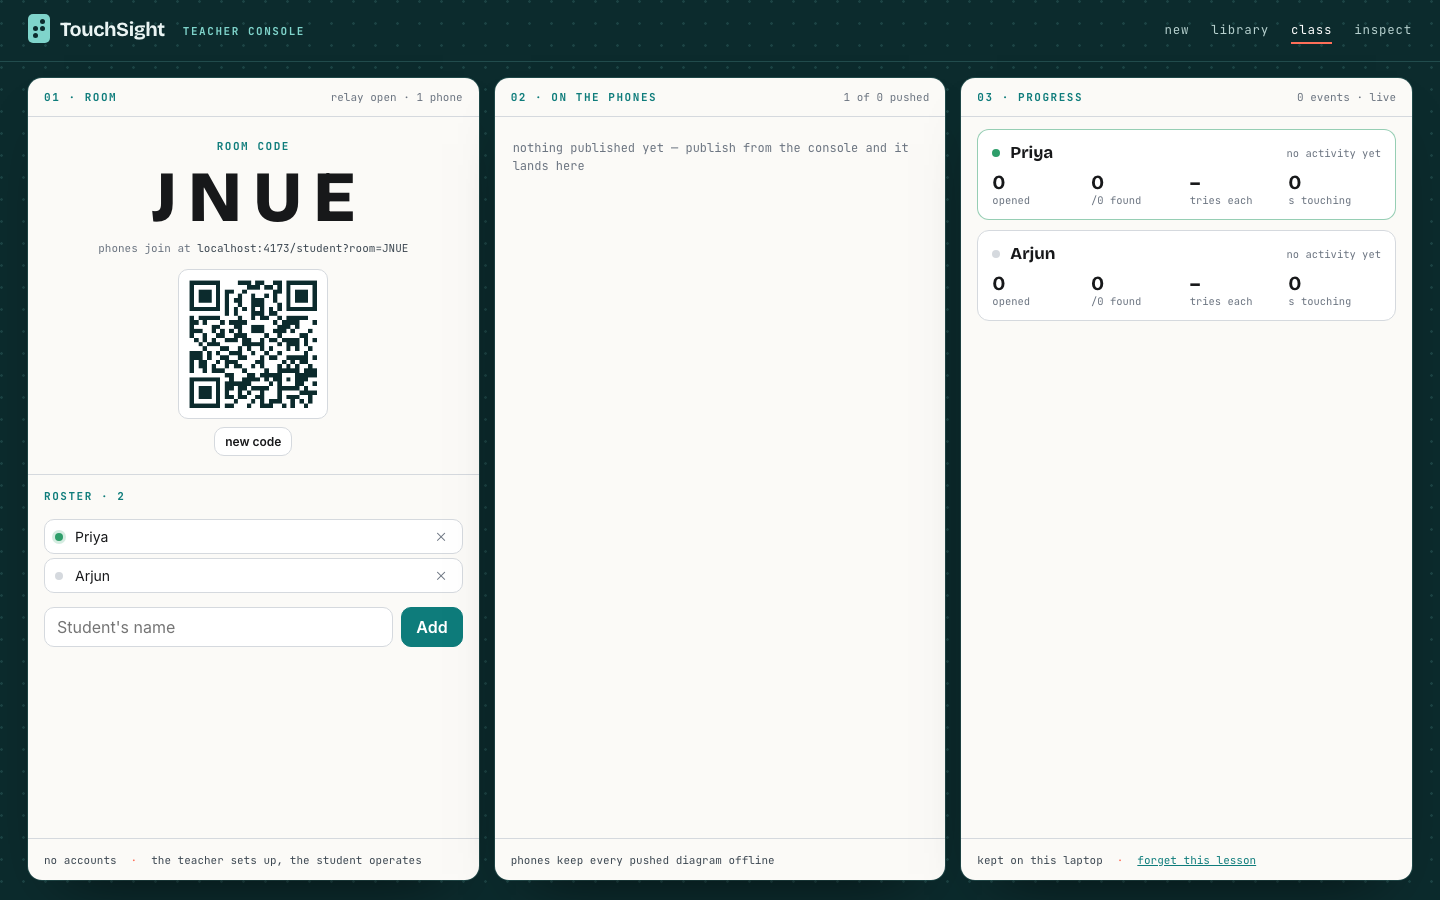
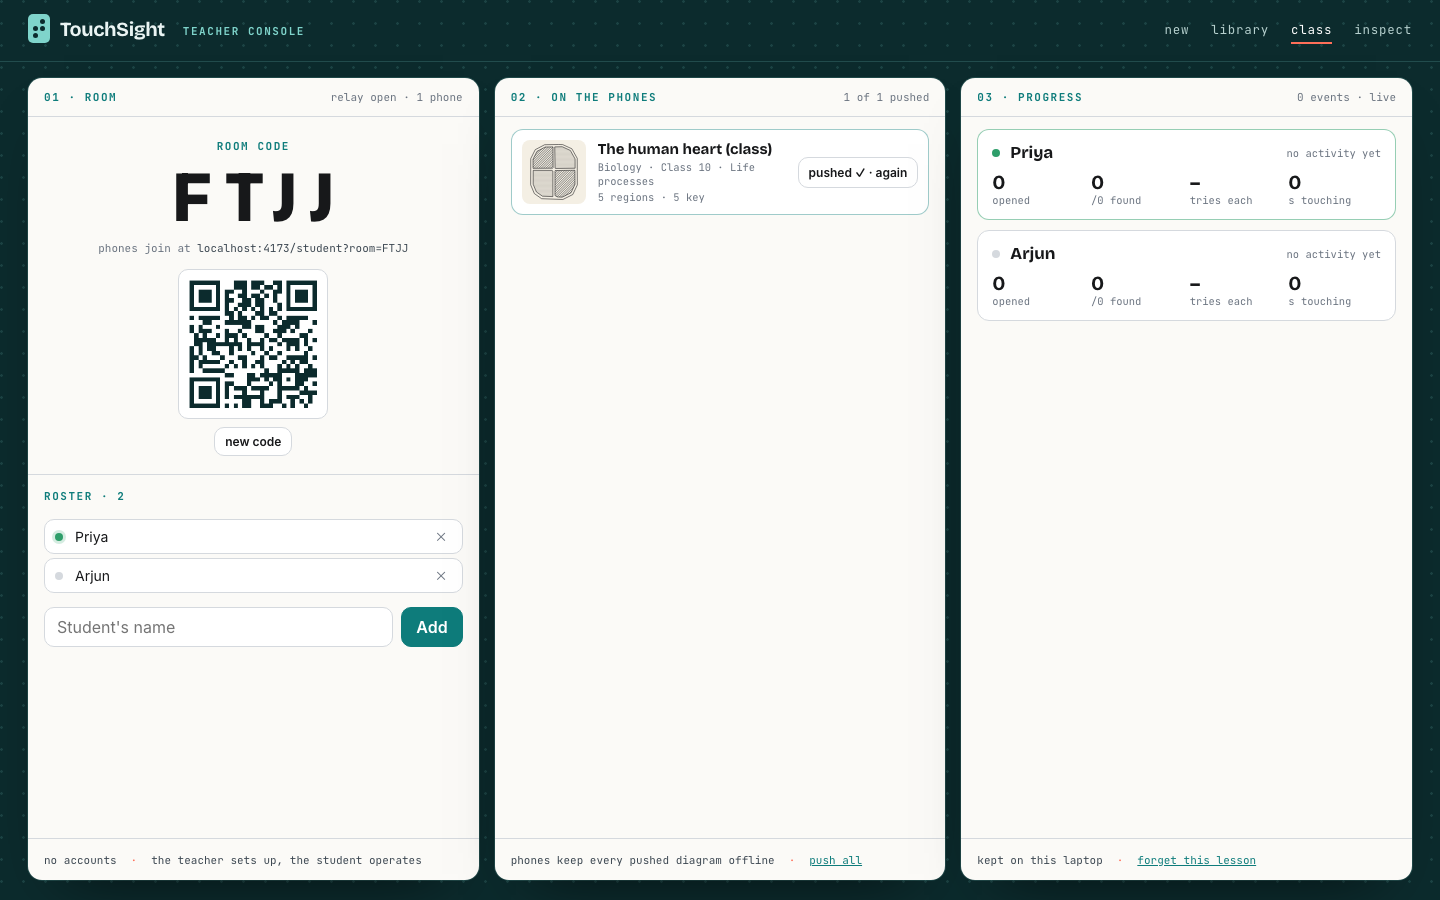
Published card counts the phones in the class

diff --git a/app/src/routes/teacher/Workbench.tsx b/app/src/routes/teacher/Workbench.tsx
@@ -30,6 +30,8 @@ export function Workbench() {
   const [title, setTitle] = useState('')
   const [imgUrl, setImgUrl] = useState<string | null>(null)
   const [found, setFound] = useState<{ regions: number; labels: number; strokes: number; ms: number } | null>(null)
+  const [phones, setPhones] = useState(0)
+  useEffect(() => { if (step !== 'published') return; const t = setInterval(() => setPhones(classroom.phones), 600); return () => clearInterval(t) }, [step])
   const fileRef = useRef<HTMLInputElement>(null)
 
   // reopen a saved diagram
@@ -244,7 +246,7 @@ export function Workbench() {
           <footer className="wb-pane-f wb-publish">
             {step === 'published' && tdm ? (
               <div className="wb-published">
-                <div className="wb-pub-row"><b>Published</b><span className="mono">pushed to class {teacherRoom()} · phones keep it offline</span><button className="btn" onClick={() => nav('/teacher/library')}>Library</button><button className="btn" onClick={reset}>New</button></div>
+                <div className="wb-pub-row"><b>Published</b><span className="mono">pushed to {phones} phone{phones === 1 ? '' : 's'} in class {teacherRoom()} · they keep it offline</span><button className="btn" onClick={() => nav('/teacher/library')}>Library</button><button className="btn" onClick={reset}>New</button></div>
                 <ExportPanel tdm={tdm} />
               </div>
             ) : tdm && step === 'review' ? (

diff --git a/app/src/store/db.ts b/app/src/store/db.ts
@@ -5,7 +5,7 @@ import type { Tdm } from '../tdm/types'
 interface TouchSightDB extends DBSchema {
   diagrams: {
     key: string
-    value: { id: string; tdm: Tdm; chapter: string; published: boolean; updatedAt: number; via?: Via }
+    value: { id: string; tdm: Tdm; chapter: string; published: boolean; updatedAt: number}
     indexes: { byChapter: string; byUpdated: number }
   }
   images: { key: string; value: { id: string; blob: Blob; w: number; h: number } }
@@ -22,7 +22,6 @@ interface TouchSightDB extends DBSchema {
 }
 
 /** teacher = made on this device, class = pushed by the teacher over the classroom link, file = opened from a .tdm.json */
-export type Via = 'teacher' | 'class' | 'file'
 
 let dbp: Promise<IDBPDatabase<TouchSightDB>> | null = null
 
@@ -48,9 +47,9 @@ export function db() {
   return dbp
 }
 
-export async function saveDiagram(tdm: Tdm, chapter: string, published: boolean, via: Via = 'teacher') {
+export async function saveDiagram(tdm: Tdm, chapter: string, published: boolean) {
   const d = await db()
-  await d.put('diagrams', { id: tdm.id, tdm, chapter, published, updatedAt: Date.now(), via })
+  await d.put('diagrams', { id: tdm.id, tdm, chapter, published, updatedAt: Date.now() })
 }
 
 export async function getDiagram(id: string) {
